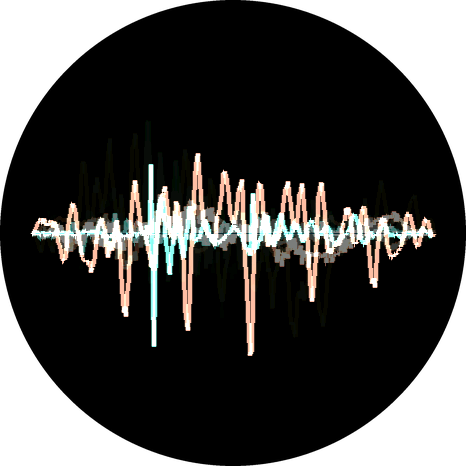
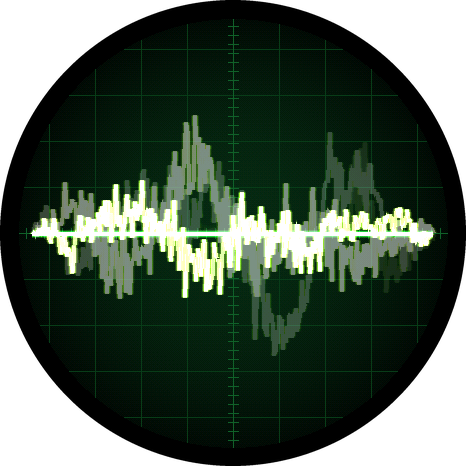
Docs: the Scope's new CRT look, and its screenshot

diff --git a/docs/features/visualizer.md b/docs/features/visualizer.md
@@ -18,7 +18,7 @@ The Visualizer fills the screen with a moving picture of your voice, and of what
 |---|---|
 | **KITT** | Three columns of red bars that light up from the middle, like KITT's voice box in Knight Rider |
 | **Terrain** | A 3D spectrum: frequency from left (low) to right (high), loudness as height, and the last second receding into the distance.  The valleys are indigo and the peaks go through pink and orange to gold.  When it's quiet the flat rows make a perspective grid |
-| **Scope** | The waveform, like an oscilloscope with a glowing trace.  Your voice is aqua and the speaker coral, both whiter as they get louder.  Each trace starts at the same point in the wave, so a held note stands still |
+| **Scope** | The waveform, like an old green CRT oscilloscope: a glowing phosphor trace over a faintly lit screen with a grid, and an afterglow of the last few traces.  Your voice is green and the speaker a yellower green, both whiter as they get louder.  Each trace starts at the same point in the wave, so a held note stands still |
 | **Halo** | The spectrum bent into a slowly turning ring of spokes, lows at the top and highs at the bottom, mirrored left and right.  Teal through blue and violet to magenta, with gold peak markers that fall back slowly |
 | **Aurora** | A spectrogram folded into a mirror image: each moment is a line across the middle, low frequencies in the center, and the history flows up and down away from it.  Speech leaves symmetric, feathery patterns in deep purple, magenta and orange |
 | **Orbit** | Each moment of the sound plotted against the one just before it.  A steady tone draws an ellipse, and a voice draws looping knots that change with every vowel.  Violet into ice blue for your voice, amber into gold for the speaker |
